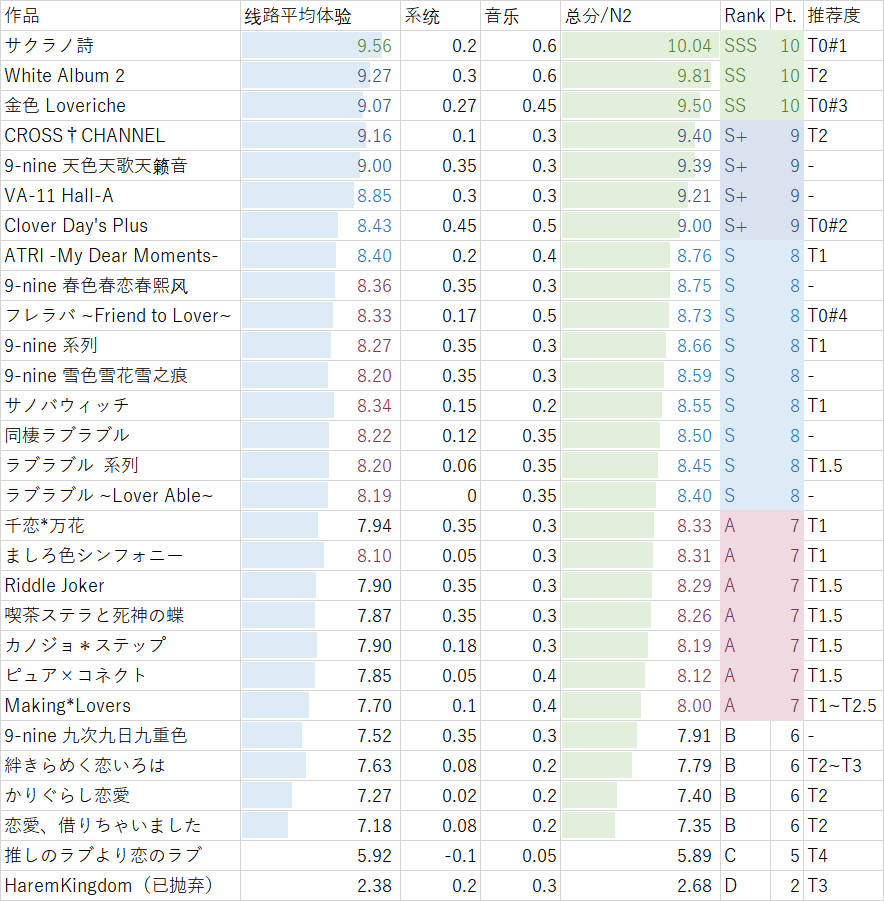
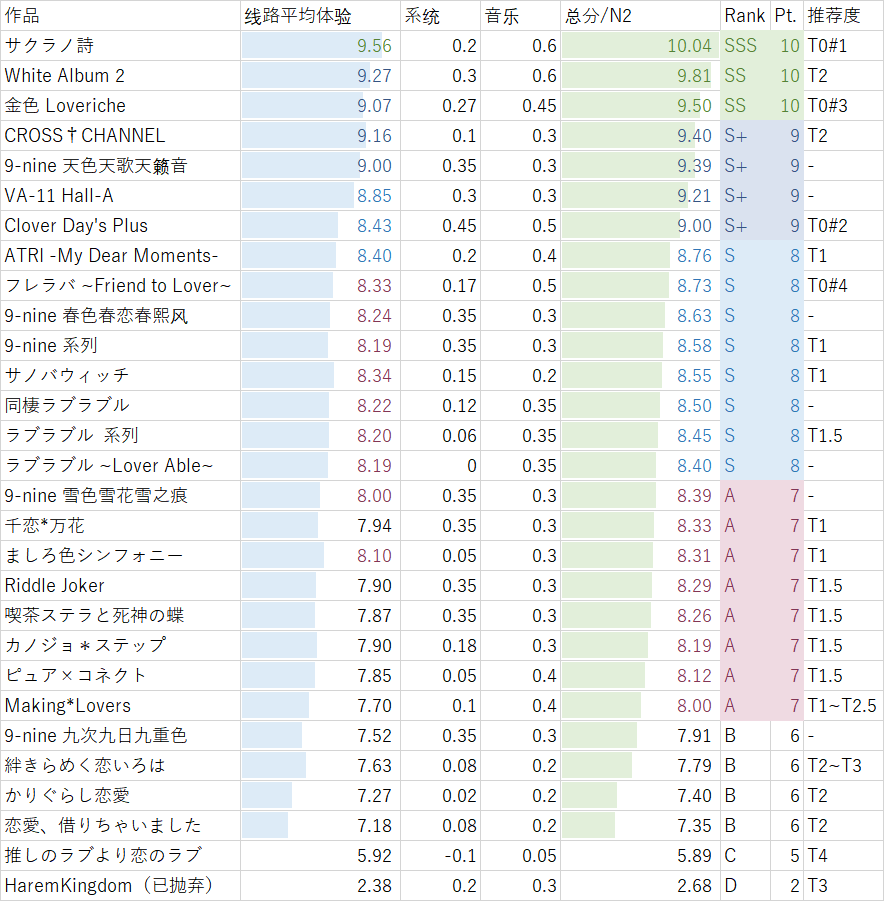
MoeImp 9nine edit

diff --git a/impression/9nine.md b/impression/9nine.md
@@ -23,9 +23,9 @@ Palette 「9-nine」（2017-2020）
 | :---------------: | ---: | :---------: | :--: |
 | 九次九日九重色 | 9.40 | 10.05/N7.91 |  B  |
 | 天色天歌天籁音 | 11.25 | 11.90/N9.39 |  S+  |
-| 春色春恋春熙风 | 10.45 | 11.10/N8.75 |  S  |
-| 雪色雪花雪之痕 | 10.25 | 10.90/N8.59 |  S   |
-| 整体评分 | - | 10.99/N8.66 |  S  |
+| 春色春恋春熙风 | 10.30 | 10.95/N8.63 |  S  |
+| 雪色雪花雪之痕 | 10.00 | 10.65/N8.39 |  A  |
+| 整体评分 | - | 10.89/N8.58 |  S  |
 
 ### 九次九日九重色
 
@@ -86,13 +86,11 @@ Palette 「9-nine」（2017-2020）
 印象分 9.4→8.8/10 趣味 0.1/0.3 情感 0.3/0.5  
 人物刻画 0.4/0.5 剧情表现 0.25/0.5  
 人物（声音 + 作画）(0.2+0.3)/(0.3+0.4)  
-虽说只是掺了一点的校园霸凌话题但是还是 +0.05  
-结尾的 meta 处理提升期待值 +0.05  
-线路总计 10.45/12.5
+线路总计 10.30/12.5
 
 系统 +0.35（同上）  
 音乐 +0.3  
-作品总计 11.10/N8.75 S
+作品总计 10.95/N8.63 S
 
 自爆系学姐すき。
 
@@ -110,22 +108,28 @@ Palette 「9-nine」（2017-2020）
 
 索菲这个角色是真的可爱 w 甚至包括（略微）腹黑和资本家的一面。然后是结城，我现在觉得这人看起来中二实际上是个明白人。
 
-以及：到第三作结尾才点明的标题的含义……我对第四作的期待值提升了。
+以及：~~到第三作结尾才点明的标题的含义……我对第四作的期待值提升了。~~ 回过头来看这个 meta 其实还挺多余的。
 
 ### 雪色雪花雪之痕
 
 （结城希亚）
 
-印象分 9.3→8.6/10 趣味 0.15/0.3 情感 0.35/0.5  
-人物刻画 0.3/0.5 剧情表现 0.25/0.5  
+印象分 9.2→8.4/10 趣味 0.15/0.3 情感 0.35/0.5  
+人物刻画 0.3/0.5 剧情表现 0.2/0.5  
 人物（声音 + 作画）(0.25+0.35)/(0.3+0.4)  
-线路总计 10.25/12.5
+线路总计 10.00/12.5
 
 系统 +0.35（同上）  
 音乐 +0.3  
-作品总计 10.90/N8.59 S
+作品总计 10.65/N8.39 A
 
-前回书说到春春春结尾给了个 meta 设定，果不其然在这里对剧情的推动和发展发挥了巨大作用——不如说没作用的话就是扣分点了。但是这对玩家的记忆有着较高的要求，需要记住这是哪，从哪开始进行世界线修正。于是有了一个 Overload ~~Flowchart~~ ，但是与其说是类似于柚子社的流程图，更像是多选一的选项——毕竟本作没有实装前三作的剧情数据，也可以理解~~而且如果出整合版估计也会因为是春春春重大剧透而只能在春春春结束后解锁吧（？）~~。
+前回书说到春春春结尾给了个 meta 设定，果不其然在这里对剧情的推动和发展发挥了**迫真**巨大作用——不如说没作用的话就是扣分点了。但是这对玩家的记忆有着较高的要求，需要记住这是哪，从哪开始进行世界线修正。于是有了一个 Overload ~~Flowchart~~ ，但是与其说是类似于柚子社的流程图，更像是多选一的选项——毕竟本作没有实装前三作的剧情数据，也可以理解~~而且如果出整合版估计也会因为是春春春重大剧透而只能在春春春结束后解锁吧（？）~~。
+
+20/06/20 更新：不过回过头来想，其实这个 meta 并没有发挥特别大的作用。本质上还是单线剧情，而且还带来了隐患（详见[这里](http://bgm.tv/blog/296935)和[这里](http://bgm.tv/blog/296913)），其实还挺难受的。所以实际上在这次更新当中我把给这作和前作的 meta 加分去掉了，因为这个 meta 其实还是挺失败的。
+
+还有一个很有意思的观点是：
+
+> 感觉这部跟其他meta作不一样的就是除了男主和两个人偶其他所有人都没有意识到nine(玩家）的存在，我们做的只是不断去读档去安装记忆给翔而一切的走向和选择都是翔在有了这份记忆的基础上做的罢了。这样也就不存在女主是对nine有爱意还是对翔有爱意这种问题（毕竟人家根本就没意识到你）。所以按我看这根本就不是一款meta作而你我也没必要用一款meta作的标准去评论。人物可爱剧情有燃点就完事了。 ——[Bangumi 用户 桐谷华](http://bgm.tv/user/310592)在[这里](http://bgm.tv/blog/296935)的评论
 
 然后在剧情设计上，想要讲清楚怎么回事还不剧透是非常难的一件事，在这里我只能说不要看攻略，攻略本身也是一种剧透。这个故事架构提供的冲击力不止一点半点。
 
